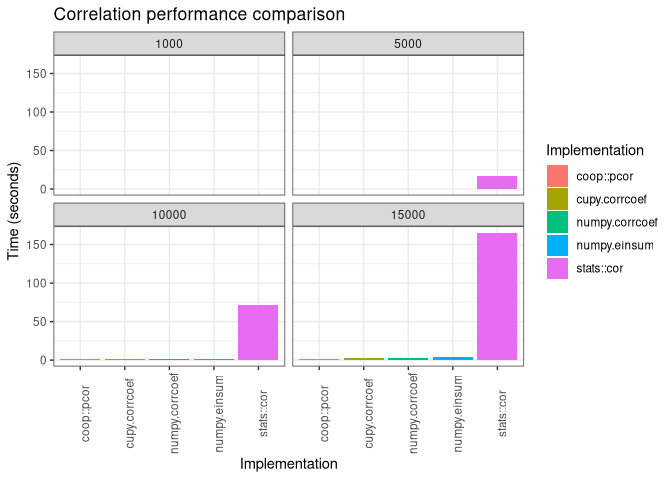
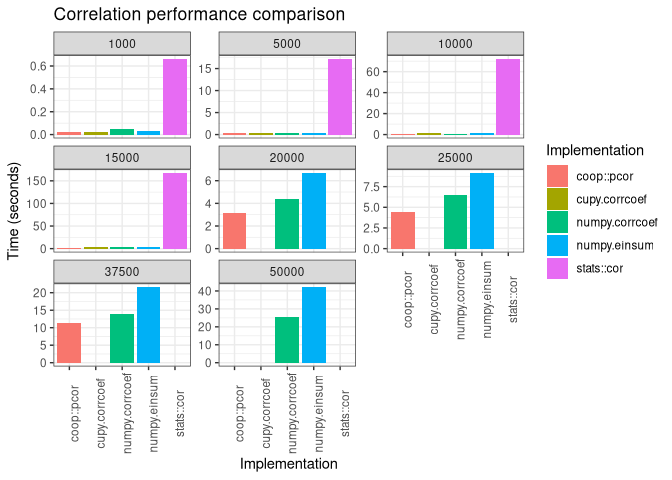
Updated benchmarks to include larger dataset sizes

diff --git a/src/pearson-cor-cupy.py b/src/pearson-cor-cupy.py
@@ -21,7 +21,7 @@ except:
 
 # save timings
 with open(snakemake.output['timings'], 'w') as fp:
-    entry = ['Pearson', 'Python', 'cupy.corrcoef', snakemake.wildcards['num_rows'], str(min(times))]
+    entry = ['Pearson', 'Python', 'cupy.corrcoef', snakemake.wildcards['nrows'], str(min(times))]
     fp.write(", ".join(entry) + "\n")
 
 # store correlation matrix result for comparison
@@ -29,7 +29,7 @@ try:
     cor_mat = cp.asnumpy(cp.corrcoef(cp.array(mat)))
     cor_mat[np.tril_indices_from(cor_mat)] = np.nan
 except:
-    num_rows = int(snakemake.wildcards['num_rows'])
-    cor_mat = np.repeat(np.nan, num_rows**2).reshape((num_rows, num_rows))
+    nrows = int(snakemake.wildcards['nrows'])
+    cor_mat = np.repeat(np.nan, nrows**2).reshape((nrows, nrows))
 
 np.save(snakemake.output['cor_mat'], cor_mat)

diff --git a/src/pearson-cor-numpy-corrcoef.py b/src/pearson-cor-numpy-corrcoef.py
@@ -14,7 +14,7 @@ times = timeit.repeat("np.corrcoef(mat)", globals=globals(), number=1, repeat=nu
 
 # save timings
 with open(snakemake.output['timings'], 'w') as fp:
-    entry = ['Pearson', 'Python', 'numpy.corrcoef', snakemake.wildcards['num_rows'], str(min(times))]
+    entry = ['Pearson', 'Python', 'numpy.corrcoef', snakemake.wildcards['nrows'], str(min(times))]
     fp.write(", ".join(entry) + "\n")
 
 # store correlation matrix result for comparison

diff --git a/src/pearson-cor-numpy-einsum.py b/src/pearson-cor-numpy-einsum.py
@@ -34,7 +34,7 @@ times = timeit.repeat("corrcoeff_einsum_optimized(mat.T, mat.T)",
 
 # save timings
 with open(snakemake.output['timings'], 'w') as fp:
-    entry = ['Pearson', 'Python', 'numpy.einsum', snakemake.wildcards['num_rows'], str(min(times))]
+    entry = ['Pearson', 'Python', 'numpy.einsum', snakemake.wildcards['nrows'], str(min(times))]
     fp.write(", ".join(entry) + "\n")
 
 # store correlation matrix result for comparison

diff --git a/README.md b/README.md
@@ -30,9 +30,10 @@ other methods (Spearman, etc.) may be included.
 
 ## Usage
 
-To run the benchmarks on your own system, clone the repo, edit the configuration file
-(`config.yml`) to your liking, and then create a conda environment and run the pipeline
-using the following commands:
+To run the benchmark pipeline, simply create a clone of the repo, edit the configuration file
+(`config.yml`) to your liking.
+
+Next, create a conda environment and run the pipeline using the following commands:
 
 ```sh
 conda create -n benchmark-cor --file requirements.txt
@@ -49,25 +50,36 @@ executing the pipline.
 | Method  | Language | Implementation | Num Rows | Time (Secs) |
 | :------ | :------- | :------------- | -------: | ----------: |
 | Pearson | Python   | numpy.corrcoef |     1000 |        0.05 |
-| Pearson | Python   | numpy.corrcoef |     5000 |        0.28 |
-| Pearson | Python   | numpy.corrcoef |    10000 |        1.01 |
-| Pearson | Python   | numpy.corrcoef |    15000 |        2.32 |
+| Pearson | Python   | numpy.corrcoef |     5000 |        0.29 |
+| Pearson | Python   | numpy.corrcoef |    10000 |        1.02 |
+| Pearson | Python   | numpy.corrcoef |    15000 |        2.52 |
+| Pearson | Python   | numpy.corrcoef |    20000 |        4.42 |
+| Pearson | Python   | numpy.corrcoef |    25000 |        6.49 |
+| Pearson | Python   | numpy.corrcoef |    37500 |       14.04 |
+| Pearson | Python   | numpy.corrcoef |    50000 |       25.36 |
 | Pearson | Python   | numpy.einsum   |     1000 |        0.03 |
-| Pearson | Python   | numpy.einsum   |     5000 |        0.41 |
-| Pearson | Python   | numpy.einsum   |    10000 |        1.48 |
-| Pearson | Python   | numpy.einsum   |    15000 |        3.49 |
-| Pearson | R        | stats::cor     |     1000 |        0.65 |
-| Pearson | R        | stats::cor     |     5000 |       17.18 |
-| Pearson | R        | stats::cor     |    10000 |       70.98 |
-| Pearson | R        | stats::cor     |    15000 |      165.36 |
+| Pearson | Python   | numpy.einsum   |     5000 |        0.46 |
+| Pearson | Python   | numpy.einsum   |    10000 |        1.63 |
+| Pearson | Python   | numpy.einsum   |    15000 |        3.65 |
+| Pearson | Python   | numpy.einsum   |    20000 |        6.67 |
+| Pearson | Python   | numpy.einsum   |    25000 |        9.14 |
+| Pearson | Python   | numpy.einsum   |    37500 |       21.58 |
+| Pearson | Python   | numpy.einsum   |    50000 |       42.10 |
+| Pearson | R        | stats::cor     |     1000 |        0.66 |
+| Pearson | R        | stats::cor     |     5000 |       17.16 |
+| Pearson | R        | stats::cor     |    10000 |       71.99 |
+| Pearson | R        | stats::cor     |    15000 |      167.05 |
 | Pearson | R        | coop::pcor     |     1000 |        0.02 |
-| Pearson | R        | coop::pcor     |     5000 |        0.29 |
-| Pearson | R        | coop::pcor     |    10000 |        0.86 |
-| Pearson | R        | coop::pcor     |    15000 |        1.71 |
+| Pearson | R        | coop::pcor     |     5000 |        0.28 |
+| Pearson | R        | coop::pcor     |    10000 |        0.87 |
+| Pearson | R        | coop::pcor     |    15000 |        1.76 |
+| Pearson | R        | coop::pcor     |    20000 |        3.11 |
+| Pearson | R        | coop::pcor     |    25000 |        4.41 |
+| Pearson | R        | coop::pcor     |    37500 |       11.21 |
 | Pearson | Python   | cupy.corrcoef  |     1000 |        0.02 |
 | Pearson | Python   | cupy.corrcoef  |     5000 |        0.30 |
-| Pearson | Python   | cupy.corrcoef  |    10000 |        1.15 |
-| Pearson | Python   | cupy.corrcoef  |    15000 |        2.60 |
+| Pearson | Python   | cupy.corrcoef  |    10000 |        1.17 |
+| Pearson | Python   | cupy.corrcoef  |    15000 |        2.61 |
 
 
 ![](results/summarize_results_files/figure-gfm/correlation_benchmark_barplot-3-1.png)
@@ -87,7 +99,7 @@ executing the pipline.
 - Due to GPU resource limitations, matrice larger than ~15,000 entries could not be tested
   with cupy.
 - The parallelized correlation implementation of pearson correlation in R,
-  `coop::pcor()` performed quite well for smaller datasets (~ 20,000 or fewer entries),
+  `coop::pcor()` performed quite well for smaller datasets (~ 40,000 or fewer entries),
   however, it appears to run out of memory and segfault regularly at larger dataset
   sizes, whereas some of the other methods can scale up beyond 50,000 records on the
   same machine.

diff --git a/results/summarize_results.md b/results/summarize_results.md
@@ -1,6 +1,6 @@
 R/Python Correlation Performance Benchmark Results Summary
 ================
-2019-12-23
+2019-12-24
 
 ``` r
 library(tidyverse)
@@ -28,32 +28,43 @@ knitr::kable(res, digits = 2)
 | Method  | Language | Implementation | Num Rows | Time (Secs) |
 | :------ | :------- | :------------- | -------: | ----------: |
 | Pearson | Python   | numpy.corrcoef |     1000 |        0.05 |
-| Pearson | Python   | numpy.corrcoef |     5000 |        0.28 |
-| Pearson | Python   | numpy.corrcoef |    10000 |        1.01 |
-| Pearson | Python   | numpy.corrcoef |    15000 |        2.32 |
+| Pearson | Python   | numpy.corrcoef |     5000 |        0.29 |
+| Pearson | Python   | numpy.corrcoef |    10000 |        1.02 |
+| Pearson | Python   | numpy.corrcoef |    15000 |        2.52 |
+| Pearson | Python   | numpy.corrcoef |    20000 |        4.42 |
+| Pearson | Python   | numpy.corrcoef |    25000 |        6.49 |
+| Pearson | Python   | numpy.corrcoef |    37500 |       14.04 |
+| Pearson | Python   | numpy.corrcoef |    50000 |       25.36 |
 | Pearson | Python   | numpy.einsum   |     1000 |        0.03 |
-| Pearson | Python   | numpy.einsum   |     5000 |        0.41 |
-| Pearson | Python   | numpy.einsum   |    10000 |        1.48 |
-| Pearson | Python   | numpy.einsum   |    15000 |        3.49 |
-| Pearson | R        | stats::cor     |     1000 |        0.65 |
-| Pearson | R        | stats::cor     |     5000 |       17.18 |
-| Pearson | R        | stats::cor     |    10000 |       70.98 |
-| Pearson | R        | stats::cor     |    15000 |      165.36 |
+| Pearson | Python   | numpy.einsum   |     5000 |        0.46 |
+| Pearson | Python   | numpy.einsum   |    10000 |        1.63 |
+| Pearson | Python   | numpy.einsum   |    15000 |        3.65 |
+| Pearson | Python   | numpy.einsum   |    20000 |        6.67 |
+| Pearson | Python   | numpy.einsum   |    25000 |        9.14 |
+| Pearson | Python   | numpy.einsum   |    37500 |       21.58 |
+| Pearson | Python   | numpy.einsum   |    50000 |       42.10 |
+| Pearson | R        | stats::cor     |     1000 |        0.66 |
+| Pearson | R        | stats::cor     |     5000 |       17.16 |
+| Pearson | R        | stats::cor     |    10000 |       71.99 |
+| Pearson | R        | stats::cor     |    15000 |      167.05 |
 | Pearson | R        | coop::pcor     |     1000 |        0.02 |
-| Pearson | R        | coop::pcor     |     5000 |        0.29 |
-| Pearson | R        | coop::pcor     |    10000 |        0.86 |
-| Pearson | R        | coop::pcor     |    15000 |        1.71 |
+| Pearson | R        | coop::pcor     |     5000 |        0.28 |
+| Pearson | R        | coop::pcor     |    10000 |        0.87 |
+| Pearson | R        | coop::pcor     |    15000 |        1.76 |
+| Pearson | R        | coop::pcor     |    20000 |        3.11 |
+| Pearson | R        | coop::pcor     |    25000 |        4.41 |
+| Pearson | R        | coop::pcor     |    37500 |       11.21 |
 | Pearson | Python   | cupy.corrcoef  |     1000 |        0.02 |
 | Pearson | Python   | cupy.corrcoef  |     5000 |        0.30 |
-| Pearson | Python   | cupy.corrcoef  |    10000 |        1.15 |
-| Pearson | Python   | cupy.corrcoef  |    15000 |        2.60 |
+| Pearson | Python   | cupy.corrcoef  |    10000 |        1.17 |
+| Pearson | Python   | cupy.corrcoef  |    15000 |        2.61 |
 
 # Time (seconds)
 
 ``` r
 ggplot(res, aes(x = Implementation, y = `Time (Secs)`, fill = Implementation)) +
   geom_bar(stat = 'identity') + 
-  facet_wrap(~`Num Rows`) +
+  facet_wrap(~`Num Rows`, scales = 'free_y') +
   theme_bw() +
   theme(axis.text.x = element_text(angle = 90)) +
   ggtitle("Correlation performance comparison") +
@@ -70,7 +81,7 @@ res_subset <- res %>%
 
 ggplot(res_subset, aes(x = Implementation, y = `Time (Secs)`, fill = Implementation)) +
   geom_bar(stat = 'identity') + 
-  facet_wrap(~`Num Rows`) +
+  facet_wrap(~`Num Rows`, scales = 'free_y') +
   theme_bw() +
   theme(axis.text.x = element_text(angle = 90)) +
   ggtitle("Correlation performance comparison (Excluding stats::cor)") +
